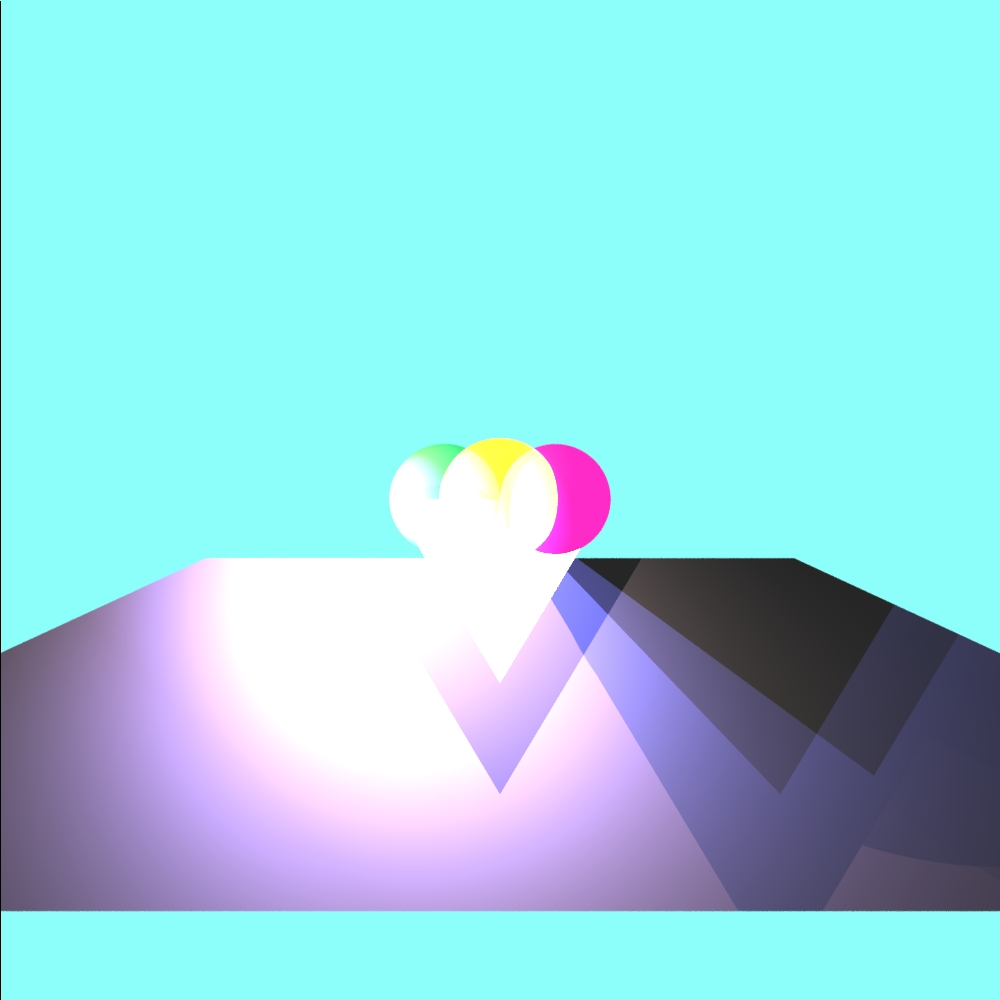
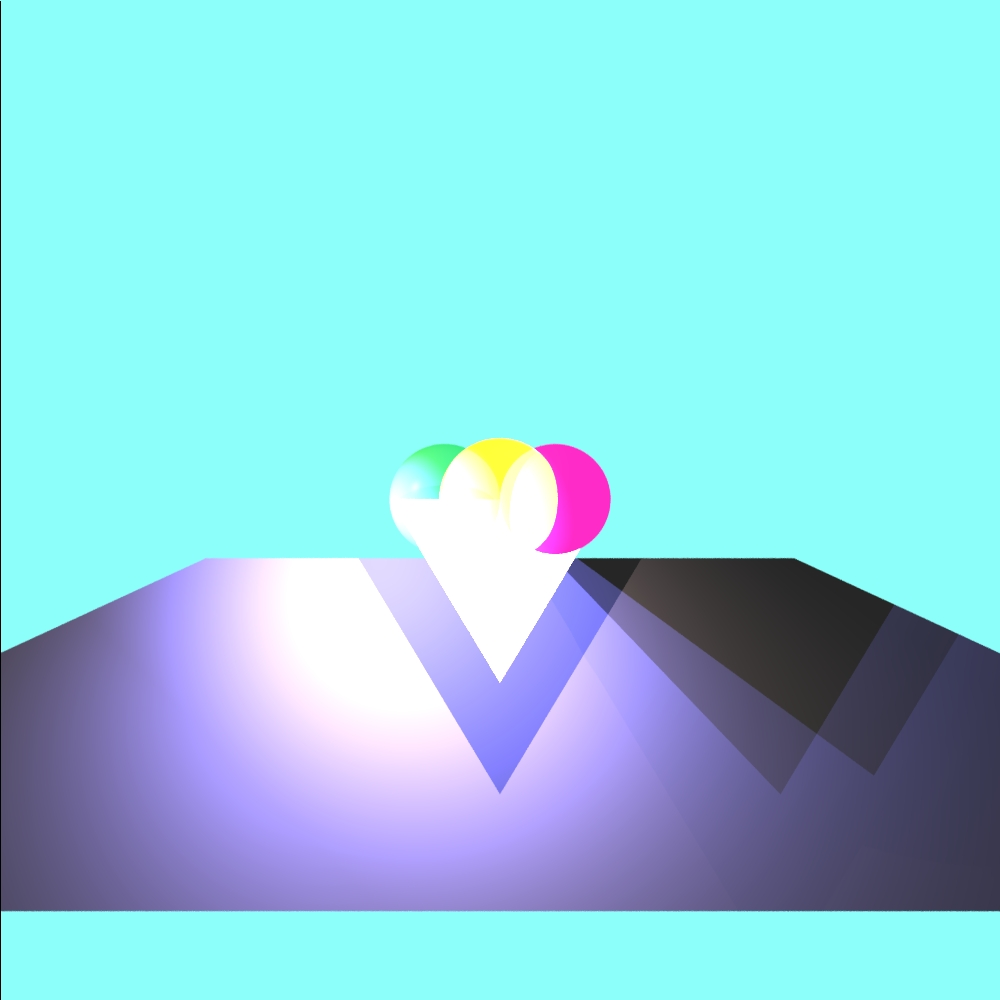
15/07/2020 22:32

Changed region(s): [[0.031, 0.558, 0.744, 0.93], [0.372, 0.434, 0.527, 0.496]]

diff --git a/unittests/renderer/SuperSamplingTest.java b/unittests/renderer/SuperSamplingTest.java
@@ -13,81 +13,153 @@ import scene.Scene;
  * ruthmiller2000@gmail.com
  */
 public class SuperSamplingTest {
+
+    Scene scene = new Scene("Test Scene")
+            .addGeometries(
+                new Sphere(
+                        new Color(255, 242, 0),
+                        new Material(0.4, 0.3, 100, 0.8, 0),
+                        80, new Point3D(0, -185, 0)),
+            new Sphere(
+                        new Color(7, 133, 42),
+                        new Material(0.4, 0.3, 50, 0.4, 0),
+                        75, new Point3D(-75, -140, 0)),
+            new Sphere(
+                        new Color(255, 5, 163),
+                        new Material(0.4, 0.3, 100),
+                        75, new Point3D(75, -140, 0)),
+            new Triangle(
+                        new Color(149, 98, 68),
+                        new Material(0.8, 1, 10000, 0, 1),
+                        new Point3D(-153, -107, 0),
+                        new Point3D(153, -107, 0),
+                        new Point3D(0, 205, 0)),
+            new Triangle(
+                        new Color(149, 98, 68),
+                        new Material(0.8, 1, 10000, 0, 1),
+                        new Point3D(-153, -107, 0),
+                        new Point3D(0, -107, -255),
+                        new Point3D(0, 205, 0)),
+            new Triangle(
+                        new Color(149, 98, 68),
+                        new Material(0.8, 1, 10000, 0, 1),
+                        new Point3D(153, -107, 0),
+                        new Point3D(0, -107, -255),
+                        new Point3D(0, 205, 0)),
+            new Triangle(
+            Color.BLACK,
+                        new Material(0.8, 1, 10000, 0, 1),
+                        new Point3D(500, 200, -100),
+                        new Point3D(-500, 200, -100),
+                        new Point3D(1800, 200, -700)),
+            new Triangle(
+            Color.BLACK,
+                        new Material(0.8, 1, 10000, 0, 1),
+                        new Point3D(-500, 200, -100),
+                        new Point3D(1800, 200, -700),
+                        new Point3D(-1800, 200, -700)));
+
+    // look from up
     @Test
-    public void MultiGeometriesWithSuperSampling() {
-        Scene scene = new Scene("Test Scene");
-
-        // standard look
-        scene.set_camera(new Camera(
-                new Point3D(0, 0, -1000),
-                new Vector(0, 0, 1),
-                new Vector(0, -1, 0)));
-
-        // look from up
-//        scene.set_camera(
-//                new Camera(
-//                        new Point3D(0, -1500, -1),
-//                        new Vector(0, 1, 0),
-//                        new Vector(0, 0, 1))
-//        );
-
-        // look from side
-//        scene.set_camera(
-//                new Camera(
-//                        new Point3D(500, 0, -2000),
-//                        new Point3D(0, 0, -200).subtract(new Point3D(500,0,-2000)).normalize(),
-//                        new Vector(0, -1, 0))
-//        );
+    public void MultiGeometriesWithSuperSamplingUp() {
+        scene.set_camera(
+                new Camera(
+                        new Point3D(0, -1500, -1),
+                        new Vector(0, 1, 0),
+                        new Vector(0, 0, 1))
+        );
 
         scene.set_distance(1000);
 
         scene.set_background(new Color(140, 255, 251));
         scene.set_ambientLight(new AmbientLight(new Color(java.awt.Color.WHITE), 0.15));
 
-        scene.addGeometries(
-                new Sphere(
-                        new Color(255, 242, 0),
-                        new Material(0.4, 0.3, 100, 0.8, 0),
-                        80, new Point3D(0, -185, 0)),
-                new Sphere(
-                        new Color(7, 133, 42),
-                        new Material(0.4, 0.3, 50, 0.4, 0),
-                        75, new Point3D(-75, -140, 0)),
-                new Sphere(
-                        new Color(255, 5, 163),
-                        new Material(0.4, 0.3, 100),
-                        75, new Point3D(75, -140, 0)),
-                new Triangle(
-                        new Color(149, 98, 68),
-                        new Material(0.8, 1, 10000, 0, 1),
-                        new Point3D(-153, -107, 0),
-                        new Point3D(153, -107, 0),
-                        new Point3D(0, 205, 0)),
-                new Triangle(
-                        new Color(149, 98, 68),
-                        new Material(0.8, 1, 10000, 0, 1),
-                        new Point3D(-153, -107, 0),
-                        new Point3D(0, -107, -255),
-                        new Point3D(0, 205, 0)),
-                new Triangle(
-                        new Color(149, 98, 68),
-                        new Material(0.8, 1, 10000, 0, 1),
-                        new Point3D(153, -107, 0),
-                        new Point3D(0, -107, -255),
-                        new Point3D(0, 205, 0)),
-                new Triangle(
-                        Color.BLACK,
-                        new Material(0.8, 1, 10000, 0, 1),
-                        new Point3D(500, 200, -100),
-                        new Point3D(-500, 200, -100),
-                        new Point3D(1800, 200, -700)),
-                new Triangle(
-                        Color.BLACK,
-                        new Material(0.8, 1, 10000, 0, 1),
-                        new Point3D(-500, 200, -100),
-                        new Point3D(1800, 200, -700),
-                        new Point3D(-1800, 200, -700)));
+        scene.removeAllLights();
+        scene.addLights(new DirectionalLight(new Color(10, 10, 10), new Vector(1, -1, 0)),
+                new SpotLight(
+                        new Color(500, 400, 400),
+                        new Point3D(0, -300, -100),
+                        new Vector(-2, 2, -3), 1, 0.00001, 0.000005),
+                new SpotLight(
+                        new Color(650, 400, 300),
+                        new Point3D(-300, -300, 100),
+                        new Vector(2, 2, -3),
+                        1.0, 0.00001, 0.00005),
+                new SpotLight(
+                        new Color(400, 400, 1020),
+                        new Point3D(-400, -300, -120),
+                        new Vector(2, 2, -3), 1, 0.00001, 0.000005),
+                new SpotLight(
+                        new Color(400, 400, 1020),
+                        new Point3D(-300, -300, -100),
+                        new Vector(2, 2, 2), 1, 0.00001, 0.000005));
 
+        ImageWriter imageWriter = new ImageWriter(
+                "superSamplingIceCreamTestUp", 1000, 1000, 1000, 1000);
+        Render render = new Render(imageWriter, scene);
+        render.set_superSampling(1d);
+        render.set_rayNumber(50);
+        render.renderImage();
+        render.writeToImage();
+    }
+
+    //look from side
+    @Test
+    public void MultiGeometriesWithSuperSamplingSide() {
+        scene.set_camera(
+                new Camera(
+                        new Point3D(500, 0, -2000),
+                        new Point3D(0, 0, -200).subtract(new Point3D(500,0,-2000)).normalize(),
+                        new Vector(0, -1, 0))
+        );
+
+        scene.set_distance(1000);
+
+        scene.set_background(new Color(140, 255, 251));
+        scene.set_ambientLight(new AmbientLight(new Color(java.awt.Color.WHITE), 0.15));
+
+        scene.removeAllLights();
+        scene.addLights(new DirectionalLight(new Color(10, 10, 10), new Vector(1, -1, 0)),
+                new SpotLight(
+                        new Color(500, 400, 400),
+                        new Point3D(0, -300, -100),
+                        new Vector(-2, 2, -3), 1, 0.00001, 0.000005),
+                new SpotLight(
+                        new Color(650, 400, 300),
+                        new Point3D(-300, -300, 100),
+                        new Vector(2, 2, -3), 1.0, 0.00001, 0.000005),
+                new SpotLight(
+                        new Color(400, 400, 1020),
+                        new Point3D(-400, -300, -120),
+                        new Vector(2, 2, -3), 1, 0.00001, 0.000005),
+                new SpotLight(
+                        new Color(400, 400, 1020),
+                        new Point3D(-300, -300, -100),
+                        new Vector(2, 2, 2), 1, 0.00001, 0.000005));
+
+        ImageWriter imageWriter = new ImageWriter(
+                "superSamplingIceCreamTestSide", 1000, 1000, 1000, 1000);
+        Render render = new Render(imageWriter, scene);
+        render.set_superSampling(1d);
+        render.set_rayNumber(50);
+        render.renderImage();
+        render.writeToImage();
+    }
+
+    // standard look
+    @Test
+    public void MultiGeometriesWithSuperSampling() {
+        scene.set_camera(new Camera(
+                new Point3D(0, 0, -1000),
+                new Vector(0, 0, 1),
+                new Vector(0, -1, 0)));
+
+        scene.set_distance(1000);
+
+        scene.set_background(new Color(140, 255, 251));
+        scene.set_ambientLight(new AmbientLight(new Color(java.awt.Color.WHITE), 0.15));
+
+        scene.removeAllLights();
         scene.addLights(new DirectionalLight(new Color(10, 10, 10), new Vector(1, -1, 0)),
                 new SpotLight(
                         new Color(500, 400, 400),

diff --git a/src/scene/Scene.java b/src/scene/Scene.java
@@ -123,8 +123,9 @@ public class Scene {
      * Add geometries to the geometries in the scene
      * @param geometries one or more Intersectable
      */
-    public void addGeometries(Intersectable... geometries){
+    public Scene addGeometries(Intersectable... geometries){
         this._geometries.add(geometries);
+        return this;
     }
 
     /**
@@ -139,6 +140,15 @@ public class Scene {
         for (LightSource lightSource: lights
              ) {
             _lights.add(lightSource);
+        }
+    }
+
+    /**
+     * Remove all the light from the list
+     */
+    public void removeAllLights() {
+        if (_lights != null){
+            _lights.clear();
         }
     }
 }
